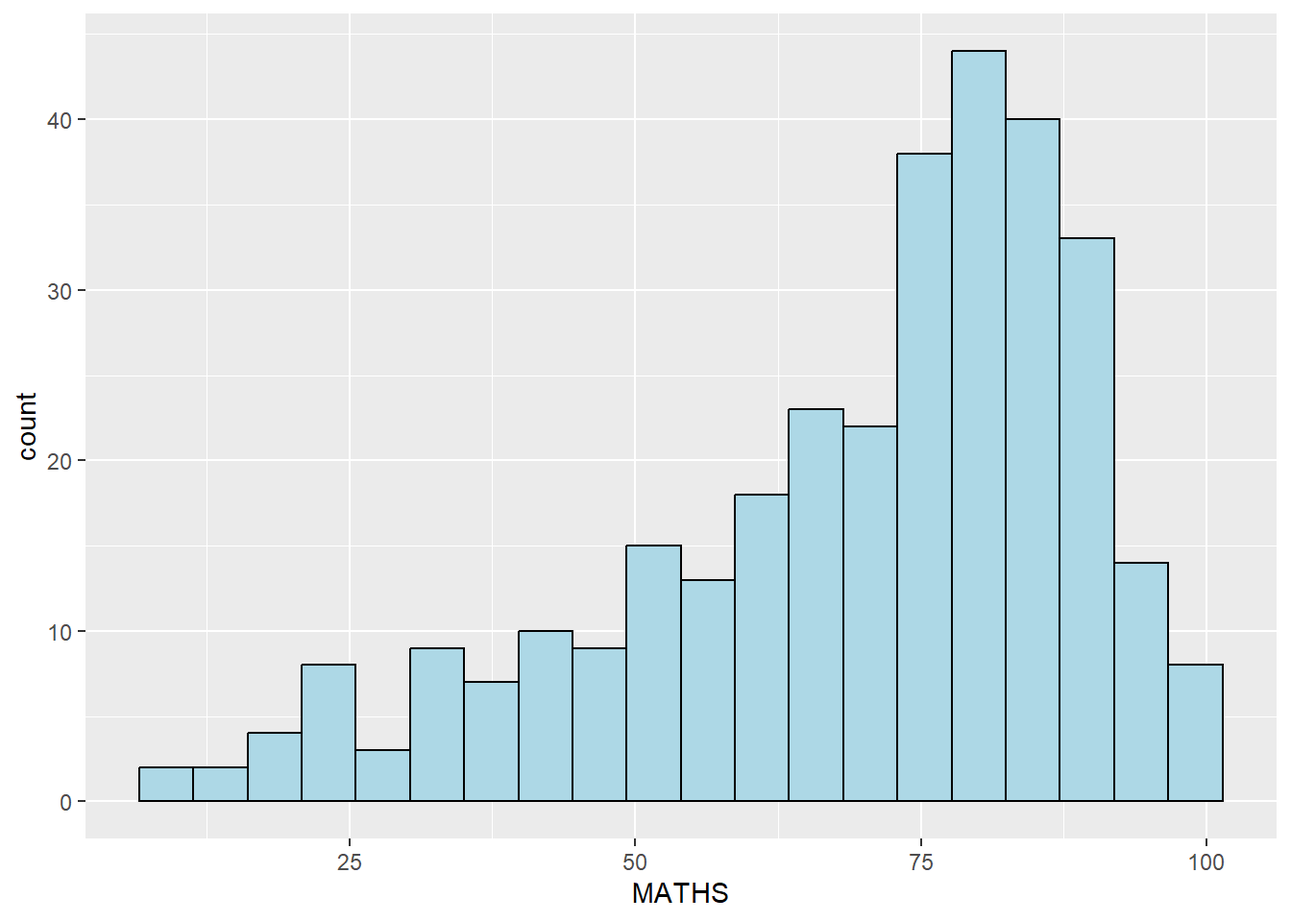
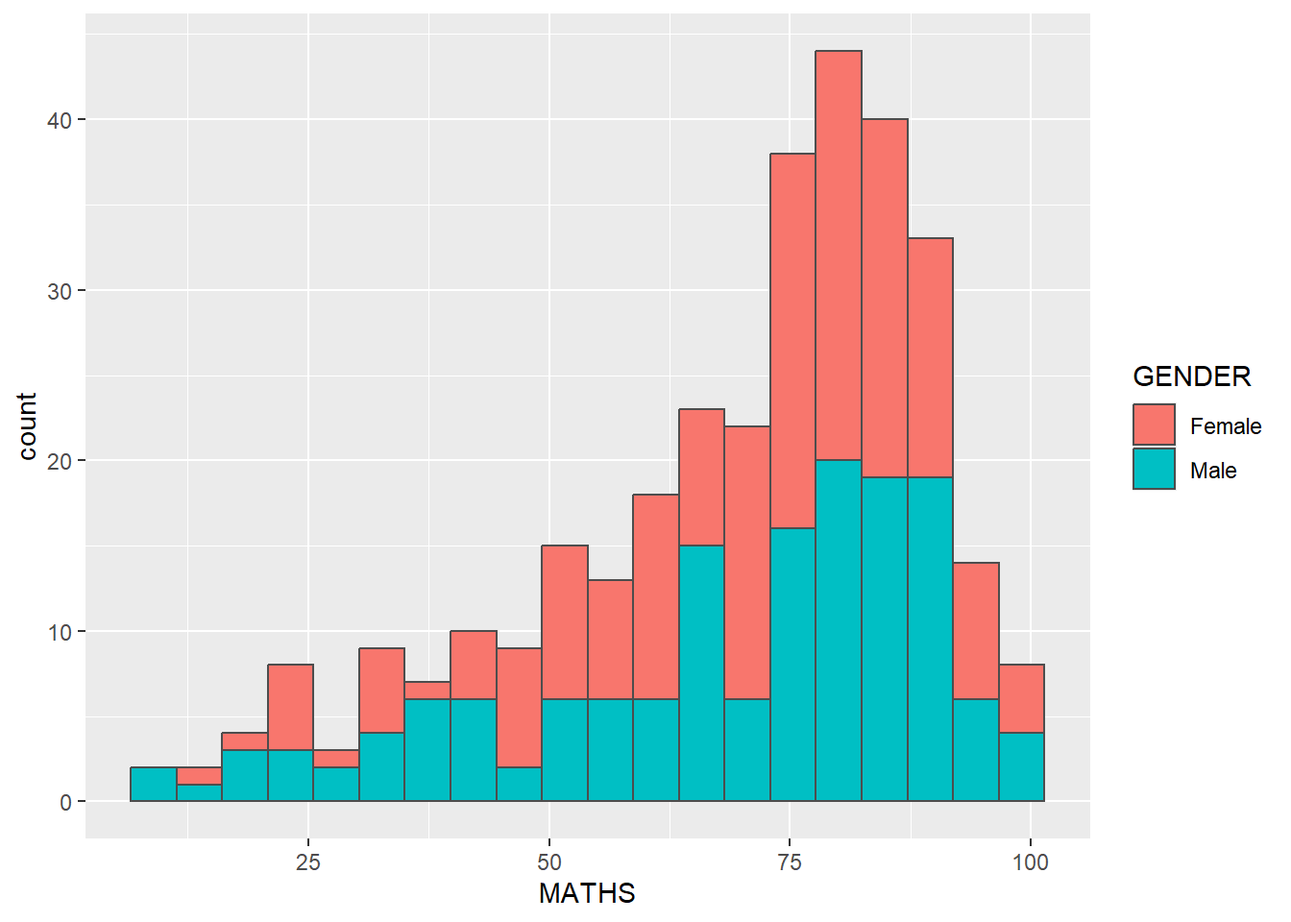
Commit after editting Hands-on Exercise 1

diff --git a/_site/Hands-on_EX/Hands-on_Ex01/Hands-on_Ex01.html b/_site/Hands-on_EX/Hands-on_Ex01/Hands-on_Ex01.html
@@ -170,7 +170,6 @@ pre > code.sourceCode > span > a:first-child::before { text-decoration: underlin
   <li><a href="#install-and-launching-r-packages" id="toc-install-and-launching-r-packages" class="nav-link" data-scroll-target="#install-and-launching-r-packages">Install and launching R packages</a></li>
   <li><a href="#importing-the-data" id="toc-importing-the-data" class="nav-link" data-scroll-target="#importing-the-data">Importing the data</a></li>
   </ul></li>
-  <li><a href="#plotting-a-simple-bar-chart" id="toc-plotting-a-simple-bar-chart" class="nav-link" data-scroll-target="#plotting-a-simple-bar-chart">Plotting a simple bar chart</a></li>
   <li><a href="#hands-on-exercise-1" id="toc-hands-on-exercise-1" class="nav-link" data-scroll-target="#hands-on-exercise-1">Hands-on Exercise 1</a>
   <ul class="collapse">
   <li><a href="#importing-the-data-1" id="toc-importing-the-data-1" class="nav-link" data-scroll-target="#importing-the-data-1">Importing the data</a></li>
@@ -180,6 +179,13 @@ pre > code.sourceCode > span > a:first-child::before { text-decoration: underlin
   <li><a href="#geom-histogram" id="toc-geom-histogram" class="nav-link" data-scroll-target="#geom-histogram">Geom Histogram</a></li>
   <li><a href="#geom-update-1" id="toc-geom-update-1" class="nav-link" data-scroll-target="#geom-update-1">Geom Update 1</a></li>
   <li><a href="#geom-update-aes" id="toc-geom-update-aes" class="nav-link" data-scroll-target="#geom-update-aes">Geom Update AES</a></li>
+  <li><a href="#geom-density" id="toc-geom-density" class="nav-link" data-scroll-target="#geom-density">Geom Density</a></li>
+  <li><a href="#geom-density-2" id="toc-geom-density-2" class="nav-link" data-scroll-target="#geom-density-2">Geom Density 2</a></li>
+  <li><a href="#geom-box-plot" id="toc-geom-box-plot" class="nav-link" data-scroll-target="#geom-box-plot">Geom Box Plot</a></li>
+  <li><a href="#geom-box-plot-notches" id="toc-geom-box-plot-notches" class="nav-link" data-scroll-target="#geom-box-plot-notches">Geom Box Plot Notches</a></li>
+  <li><a href="#geom-violin" id="toc-geom-violin" class="nav-link" data-scroll-target="#geom-violin">Geom Violin</a></li>
+  <li><a href="#geom-point" id="toc-geom-point" class="nav-link" data-scroll-target="#geom-point">Geom Point</a></li>
+  <li><a href="#geom-objects-combined" id="toc-geom-objects-combined" class="nav-link" data-scroll-target="#geom-objects-combined">Geom Objects Combined</a></li>
   </ul></li>
   </ul>
 </nav>
@@ -238,30 +244,15 @@ dbl (3): ENGLISH, MATHS, SCIENCE
 </div>
 </section>
 </section>
-<section id="plotting-a-simple-bar-chart" class="level1">
-<h1>Plotting a simple bar chart</h1>
-<div class="cell">
-<div class="code-copy-outer-scaffold"><div class="sourceCode cell-code" id="cb4"><pre class="sourceCode r code-with-copy"><code class="sourceCode r"><span id="cb4-1"><a href="#cb4-1" aria-hidden="true" tabindex="-1"></a><span class="fu">ggplot</span>(<span class="at">data =</span> exam_data,</span>
-<span id="cb4-2"><a href="#cb4-2" aria-hidden="true" tabindex="-1"></a>       <span class="fu">aes</span>(<span class="at">x =</span> RACE)) <span class="sc">+</span></span>
-<span id="cb4-3"><a href="#cb4-3" aria-hidden="true" tabindex="-1"></a>  <span class="fu">geom_bar</span>()</span></code></pre></div><button title="Copy to Clipboard" class="code-copy-button"><i class="bi"></i></button></div>
-<div class="cell-output-display">
-<div>
-<figure class="figure">
-<p><img src="Hands-on_Ex01_files/figure-html/unnamed-chunk-3-1.png" class="img-fluid figure-img" width="672"></p>
-</figure>
-</div>
-</div>
-</div>
-</section>
 <section id="hands-on-exercise-1" class="level1">
 <h1>Hands-on Exercise 1</h1>
 <div class="cell">
-<div class="code-copy-outer-scaffold"><div class="sourceCode cell-code" id="cb5"><pre class="sourceCode r code-with-copy"><code class="sourceCode r"><span id="cb5-1"><a href="#cb5-1" aria-hidden="true" tabindex="-1"></a>pacman<span class="sc">::</span><span class="fu">p_load</span>(tidyverse)</span></code></pre></div><button title="Copy to Clipboard" class="code-copy-button"><i class="bi"></i></button></div>
+<div class="code-copy-outer-scaffold"><div class="sourceCode cell-code" id="cb4"><pre class="sourceCode r code-with-copy"><code class="sourceCode r"><span id="cb4-1"><a href="#cb4-1" aria-hidden="true" tabindex="-1"></a>pacman<span class="sc">::</span><span class="fu">p_load</span>(tidyverse)</span></code></pre></div><button title="Copy to Clipboard" class="code-copy-button"><i class="bi"></i></button></div>
 </div>
 <section id="importing-the-data-1" class="level2">
 <h2 class="anchored" data-anchor-id="importing-the-data-1">Importing the data</h2>
 <div class="cell">
-<div class="code-copy-outer-scaffold"><div class="sourceCode cell-code" id="cb6"><pre class="sourceCode r code-with-copy"><code class="sourceCode r"><span id="cb6-1"><a href="#cb6-1" aria-hidden="true" tabindex="-1"></a>exam_data <span class="ot">&lt;-</span> <span class="fu">read_csv</span>(<span class="st">"data/Exam_data.csv"</span>)</span></code></pre></div><button title="Copy to Clipboard" class="code-copy-button"><i class="bi"></i></button></div>
+<div class="code-copy-outer-scaffold"><div class="sourceCode cell-code" id="cb5"><pre class="sourceCode r code-with-copy"><code class="sourceCode r"><span id="cb5-1"><a href="#cb5-1" aria-hidden="true" tabindex="-1"></a>exam_data <span class="ot">&lt;-</span> <span class="fu">read_csv</span>(<span class="st">"data/Exam_data.csv"</span>)</span></code></pre></div><button title="Copy to Clipboard" class="code-copy-button"><i class="bi"></i></button></div>
 <div class="cell-output cell-output-stderr">
 <pre><code>Rows: 322 Columns: 7
 ── Column specification ────────────────────────────────────────────────────────
@@ -277,12 +268,27 @@ dbl (3): ENGLISH, MATHS, SCIENCE
 <section id="hands-on-exercise-1-1" class="level2">
 <h2 class="anchored" data-anchor-id="hands-on-exercise-1-1">Hands-on Exercise 1</h2>
 <div class="cell">
-<div class="code-copy-outer-scaffold"><div class="sourceCode cell-code" id="cb8"><pre class="sourceCode r code-with-copy"><code class="sourceCode r"><span id="cb8-1"><a href="#cb8-1" aria-hidden="true" tabindex="-1"></a><span class="fu">ggplot</span>(<span class="at">data=</span>exam_data, <span class="fu">aes</span>(<span class="at">x =</span> MATHS)) <span class="sc">+</span></span>
-<span id="cb8-2"><a href="#cb8-2" aria-hidden="true" tabindex="-1"></a>  <span class="fu">geom_histogram</span>(<span class="at">bins=</span><span class="dv">10</span>, </span>
-<span id="cb8-3"><a href="#cb8-3" aria-hidden="true" tabindex="-1"></a>                 <span class="at">boundary =</span> <span class="dv">100</span>,</span>
-<span id="cb8-4"><a href="#cb8-4" aria-hidden="true" tabindex="-1"></a>                 <span class="at">color=</span><span class="st">"black"</span>, </span>
-<span id="cb8-5"><a href="#cb8-5" aria-hidden="true" tabindex="-1"></a>                 <span class="at">fill=</span><span class="st">"grey"</span>) <span class="sc">+</span></span>
-<span id="cb8-6"><a href="#cb8-6" aria-hidden="true" tabindex="-1"></a>  <span class="fu">ggtitle</span>(<span class="st">"Distribution of Maths scores"</span>)</span></code></pre></div><button title="Copy to Clipboard" class="code-copy-button"><i class="bi"></i></button></div>
+<div class="code-copy-outer-scaffold"><div class="sourceCode cell-code" id="cb7"><pre class="sourceCode r code-with-copy"><code class="sourceCode r"><span id="cb7-1"><a href="#cb7-1" aria-hidden="true" tabindex="-1"></a><span class="fu">ggplot</span>(<span class="at">data=</span>exam_data, <span class="fu">aes</span>(<span class="at">x =</span> MATHS)) <span class="sc">+</span></span>
+<span id="cb7-2"><a href="#cb7-2" aria-hidden="true" tabindex="-1"></a>  <span class="fu">geom_histogram</span>(<span class="at">bins=</span><span class="dv">10</span>, </span>
+<span id="cb7-3"><a href="#cb7-3" aria-hidden="true" tabindex="-1"></a>                 <span class="at">boundary =</span> <span class="dv">100</span>,</span>
+<span id="cb7-4"><a href="#cb7-4" aria-hidden="true" tabindex="-1"></a>                 <span class="at">color=</span><span class="st">"black"</span>, </span>
+<span id="cb7-5"><a href="#cb7-5" aria-hidden="true" tabindex="-1"></a>                 <span class="at">fill=</span><span class="st">"grey"</span>) <span class="sc">+</span></span>
+<span id="cb7-6"><a href="#cb7-6" aria-hidden="true" tabindex="-1"></a>  <span class="fu">ggtitle</span>(<span class="st">"Distribution of Maths scores"</span>)</span></code></pre></div><button title="Copy to Clipboard" class="code-copy-button"><i class="bi"></i></button></div>
+<div class="cell-output-display">
+<div>
+<figure class="figure">
+<p><img src="Hands-on_Ex01_files/figure-html/unnamed-chunk-5-1.png" class="img-fluid figure-img" width="672"></p>
+</figure>
+</div>
+</div>
+</div>
+</section>
+<section id="geom-bar" class="level2">
+<h2 class="anchored" data-anchor-id="geom-bar">Geom Bar</h2>
+<div class="cell">
+<div class="code-copy-outer-scaffold"><div class="sourceCode cell-code" id="cb8"><pre class="sourceCode r code-with-copy"><code class="sourceCode r"><span id="cb8-1"><a href="#cb8-1" aria-hidden="true" tabindex="-1"></a><span class="fu">ggplot</span>(<span class="at">data=</span>exam_data, </span>
+<span id="cb8-2"><a href="#cb8-2" aria-hidden="true" tabindex="-1"></a>       <span class="fu">aes</span>(<span class="at">x=</span>MATHS)) <span class="sc">+</span></span>
+<span id="cb8-3"><a href="#cb8-3" aria-hidden="true" tabindex="-1"></a>  <span class="fu">geom_bar</span>()</span></code></pre></div><button title="Copy to Clipboard" class="code-copy-button"><i class="bi"></i></button></div>
 <div class="cell-output-display">
 <div>
 <figure class="figure">
@@ -292,12 +298,15 @@ dbl (3): ENGLISH, MATHS, SCIENCE
 </div>
 </div>
 </section>
-<section id="geom-bar" class="level2">
-<h2 class="anchored" data-anchor-id="geom-bar">Geom Bar</h2>
+<section id="geom-dot-plot" class="level2">
+<h2 class="anchored" data-anchor-id="geom-dot-plot">Geom Dot Plot</h2>
 <div class="cell">
 <div class="code-copy-outer-scaffold"><div class="sourceCode cell-code" id="cb9"><pre class="sourceCode r code-with-copy"><code class="sourceCode r"><span id="cb9-1"><a href="#cb9-1" aria-hidden="true" tabindex="-1"></a><span class="fu">ggplot</span>(<span class="at">data=</span>exam_data, </span>
-<span id="cb9-2"><a href="#cb9-2" aria-hidden="true" tabindex="-1"></a>       <span class="fu">aes</span>(<span class="at">x=</span>MATHS)) <span class="sc">+</span></span>
-<span id="cb9-3"><a href="#cb9-3" aria-hidden="true" tabindex="-1"></a>  <span class="fu">geom_bar</span>()</span></code></pre></div><button title="Copy to Clipboard" class="code-copy-button"><i class="bi"></i></button></div>
+<span id="cb9-2"><a href="#cb9-2" aria-hidden="true" tabindex="-1"></a>       <span class="fu">aes</span>(<span class="at">x =</span> MATHS)) <span class="sc">+</span></span>
+<span id="cb9-3"><a href="#cb9-3" aria-hidden="true" tabindex="-1"></a>  <span class="fu">geom_dotplot</span>(<span class="at">binwidth=</span><span class="fl">2.5</span>,         </span>
+<span id="cb9-4"><a href="#cb9-4" aria-hidden="true" tabindex="-1"></a>               <span class="at">dotsize =</span> <span class="fl">0.5</span>) <span class="sc">+</span>      </span>
+<span id="cb9-5"><a href="#cb9-5" aria-hidden="true" tabindex="-1"></a>  <span class="fu">scale_y_continuous</span>(<span class="cn">NULL</span>,           </span>
+<span id="cb9-6"><a href="#cb9-6" aria-hidden="true" tabindex="-1"></a>                     <span class="at">breaks =</span> <span class="cn">NULL</span>)</span></code></pre></div><button title="Copy to Clipboard" class="code-copy-button"><i class="bi"></i></button></div>
 <div class="cell-output-display">
 <div>
 <figure class="figure">
@@ -307,15 +316,12 @@ dbl (3): ENGLISH, MATHS, SCIENCE
 </div>
 </div>
 </section>
-<section id="geom-dot-plot" class="level2">
-<h2 class="anchored" data-anchor-id="geom-dot-plot">Geom Dot Plot</h2>
+<section id="geom-histogram" class="level2">
+<h2 class="anchored" data-anchor-id="geom-histogram">Geom Histogram</h2>
 <div class="cell">
 <div class="code-copy-outer-scaffold"><div class="sourceCode cell-code" id="cb10"><pre class="sourceCode r code-with-copy"><code class="sourceCode r"><span id="cb10-1"><a href="#cb10-1" aria-hidden="true" tabindex="-1"></a><span class="fu">ggplot</span>(<span class="at">data=</span>exam_data, </span>
 <span id="cb10-2"><a href="#cb10-2" aria-hidden="true" tabindex="-1"></a>       <span class="fu">aes</span>(<span class="at">x =</span> MATHS)) <span class="sc">+</span></span>
-<span id="cb10-3"><a href="#cb10-3" aria-hidden="true" tabindex="-1"></a>  <span class="fu">geom_dotplot</span>(<span class="at">binwidth=</span><span class="fl">2.5</span>,         </span>
-<span id="cb10-4"><a href="#cb10-4" aria-hidden="true" tabindex="-1"></a>               <span class="at">dotsize =</span> <span class="fl">0.5</span>) <span class="sc">+</span>      </span>
-<span id="cb10-5"><a href="#cb10-5" aria-hidden="true" tabindex="-1"></a>  <span class="fu">scale_y_continuous</span>(<span class="cn">NULL</span>,           </span>
-<span id="cb10-6"><a href="#cb10-6" aria-hidden="true" tabindex="-1"></a>                     <span class="at">breaks =</span> <span class="cn">NULL</span>)</span></code></pre></div><button title="Copy to Clipboard" class="code-copy-button"><i class="bi"></i></button></div>
+<span id="cb10-3"><a href="#cb10-3" aria-hidden="true" tabindex="-1"></a>  <span class="fu">geom_histogram</span>(<span class="at">bins=</span><span class="dv">15</span>)     </span></code></pre></div><button title="Copy to Clipboard" class="code-copy-button"><i class="bi"></i></button></div>
 <div class="cell-output-display">
 <div>
 <figure class="figure">
@@ -325,12 +331,14 @@ dbl (3): ENGLISH, MATHS, SCIENCE
 </div>
 </div>
 </section>
-<section id="geom-histogram" class="level2">
-<h2 class="anchored" data-anchor-id="geom-histogram">Geom Histogram</h2>
+<section id="geom-update-1" class="level2">
+<h2 class="anchored" data-anchor-id="geom-update-1">Geom Update 1</h2>
 <div class="cell">
 <div class="code-copy-outer-scaffold"><div class="sourceCode cell-code" id="cb11"><pre class="sourceCode r code-with-copy"><code class="sourceCode r"><span id="cb11-1"><a href="#cb11-1" aria-hidden="true" tabindex="-1"></a><span class="fu">ggplot</span>(<span class="at">data=</span>exam_data, </span>
 <span id="cb11-2"><a href="#cb11-2" aria-hidden="true" tabindex="-1"></a>       <span class="fu">aes</span>(<span class="at">x =</span> MATHS)) <span class="sc">+</span></span>
-<span id="cb11-3"><a href="#cb11-3" aria-hidden="true" tabindex="-1"></a>  <span class="fu">geom_histogram</span>(<span class="at">bins=</span><span class="dv">15</span>)     </span></code></pre></div><button title="Copy to Clipboard" class="code-copy-button"><i class="bi"></i></button></div>
+<span id="cb11-3"><a href="#cb11-3" aria-hidden="true" tabindex="-1"></a>    <span class="fu">geom_histogram</span>(<span class="at">bins=</span><span class="dv">20</span>,            </span>
+<span id="cb11-4"><a href="#cb11-4" aria-hidden="true" tabindex="-1"></a>                 <span class="at">color=</span><span class="st">"black"</span>,      </span>
+<span id="cb11-5"><a href="#cb11-5" aria-hidden="true" tabindex="-1"></a>                 <span class="at">fill=</span><span class="st">"light blue"</span>)</span></code></pre></div><button title="Copy to Clipboard" class="code-copy-button"><i class="bi"></i></button></div>
 <div class="cell-output-display">
 <div>
 <figure class="figure">
@@ -340,14 +348,14 @@ dbl (3): ENGLISH, MATHS, SCIENCE
 </div>
 </div>
 </section>
-<section id="geom-update-1" class="level2">
-<h2 class="anchored" data-anchor-id="geom-update-1">Geom Update 1</h2>
+<section id="geom-update-aes" class="level2">
+<h2 class="anchored" data-anchor-id="geom-update-aes">Geom Update AES</h2>
 <div class="cell">
 <div class="code-copy-outer-scaffold"><div class="sourceCode cell-code" id="cb12"><pre class="sourceCode r code-with-copy"><code class="sourceCode r"><span id="cb12-1"><a href="#cb12-1" aria-hidden="true" tabindex="-1"></a><span class="fu">ggplot</span>(<span class="at">data=</span>exam_data, </span>
-<span id="cb12-2"><a href="#cb12-2" aria-hidden="true" tabindex="-1"></a>       <span class="fu">aes</span>(<span class="at">x =</span> MATHS)) <span class="sc">+</span></span>
-<span id="cb12-3"><a href="#cb12-3" aria-hidden="true" tabindex="-1"></a>    <span class="fu">geom_histogram</span>(<span class="at">bins=</span><span class="dv">20</span>,            </span>
-<span id="cb12-4"><a href="#cb12-4" aria-hidden="true" tabindex="-1"></a>                 <span class="at">color=</span><span class="st">"black"</span>,      </span>
-<span id="cb12-5"><a href="#cb12-5" aria-hidden="true" tabindex="-1"></a>                 <span class="at">fill=</span><span class="st">"light blue"</span>)</span></code></pre></div><button title="Copy to Clipboard" class="code-copy-button"><i class="bi"></i></button></div>
+<span id="cb12-2"><a href="#cb12-2" aria-hidden="true" tabindex="-1"></a>       <span class="fu">aes</span>(<span class="at">x=</span> MATHS, </span>
+<span id="cb12-3"><a href="#cb12-3" aria-hidden="true" tabindex="-1"></a>           <span class="at">fill =</span> GENDER)) <span class="sc">+</span></span>
+<span id="cb12-4"><a href="#cb12-4" aria-hidden="true" tabindex="-1"></a>  <span class="fu">geom_histogram</span>(<span class="at">bins=</span><span class="dv">20</span>, </span>
+<span id="cb12-5"><a href="#cb12-5" aria-hidden="true" tabindex="-1"></a>                 <span class="at">color=</span><span class="st">"grey30"</span>)</span></code></pre></div><button title="Copy to Clipboard" class="code-copy-button"><i class="bi"></i></button></div>
 <div class="cell-output-display">
 <div>
 <figure class="figure">
@@ -357,18 +365,114 @@ dbl (3): ENGLISH, MATHS, SCIENCE
 </div>
 </div>
 </section>
-<section id="geom-update-aes" class="level2">
-<h2 class="anchored" data-anchor-id="geom-update-aes">Geom Update AES</h2>
+<section id="geom-density" class="level2">
+<h2 class="anchored" data-anchor-id="geom-density">Geom Density</h2>
 <div class="cell">
 <div class="code-copy-outer-scaffold"><div class="sourceCode cell-code" id="cb13"><pre class="sourceCode r code-with-copy"><code class="sourceCode r"><span id="cb13-1"><a href="#cb13-1" aria-hidden="true" tabindex="-1"></a><span class="fu">ggplot</span>(<span class="at">data=</span>exam_data, </span>
-<span id="cb13-2"><a href="#cb13-2" aria-hidden="true" tabindex="-1"></a>       <span class="fu">aes</span>(<span class="at">x=</span> MATHS, </span>
-<span id="cb13-3"><a href="#cb13-3" aria-hidden="true" tabindex="-1"></a>           <span class="at">fill =</span> GENDER)) <span class="sc">+</span></span>
-<span id="cb13-4"><a href="#cb13-4" aria-hidden="true" tabindex="-1"></a>  <span class="fu">geom_histogram</span>(<span class="at">bins=</span><span class="dv">20</span>, </span>
-<span id="cb13-5"><a href="#cb13-5" aria-hidden="true" tabindex="-1"></a>                 <span class="at">color=</span><span class="st">"grey30"</span>)</span></code></pre></div><button title="Copy to Clipboard" class="code-copy-button"><i class="bi"></i></button></div>
+<span id="cb13-2"><a href="#cb13-2" aria-hidden="true" tabindex="-1"></a>       <span class="fu">aes</span>(<span class="at">x =</span> MATHS)) <span class="sc">+</span></span>
+<span id="cb13-3"><a href="#cb13-3" aria-hidden="true" tabindex="-1"></a>  <span class="fu">geom_density</span>()    </span></code></pre></div><button title="Copy to Clipboard" class="code-copy-button"><i class="bi"></i></button></div>
 <div class="cell-output-display">
 <div>
 <figure class="figure">
 <p><img src="Hands-on_Ex01_files/figure-html/unnamed-chunk-11-1.png" class="img-fluid figure-img" width="672"></p>
+</figure>
+</div>
+</div>
+</div>
+</section>
+<section id="geom-density-2" class="level2">
+<h2 class="anchored" data-anchor-id="geom-density-2">Geom Density 2</h2>
+<div class="cell">
+<div class="code-copy-outer-scaffold"><div class="sourceCode cell-code" id="cb14"><pre class="sourceCode r code-with-copy"><code class="sourceCode r"><span id="cb14-1"><a href="#cb14-1" aria-hidden="true" tabindex="-1"></a><span class="fu">ggplot</span>(<span class="at">data=</span>exam_data, </span>
+<span id="cb14-2"><a href="#cb14-2" aria-hidden="true" tabindex="-1"></a>       <span class="fu">aes</span>(<span class="at">x =</span> MATHS, </span>
+<span id="cb14-3"><a href="#cb14-3" aria-hidden="true" tabindex="-1"></a>           <span class="at">colour =</span> GENDER)) <span class="sc">+</span></span>
+<span id="cb14-4"><a href="#cb14-4" aria-hidden="true" tabindex="-1"></a>  <span class="fu">geom_density</span>()</span></code></pre></div><button title="Copy to Clipboard" class="code-copy-button"><i class="bi"></i></button></div>
+<div class="cell-output-display">
+<div>
+<figure class="figure">
+<p><img src="Hands-on_Ex01_files/figure-html/unnamed-chunk-12-1.png" class="img-fluid figure-img" width="672"></p>
+</figure>
+</div>
+</div>
+</div>
+</section>
+<section id="geom-box-plot" class="level2">
+<h2 class="anchored" data-anchor-id="geom-box-plot">Geom Box Plot</h2>
+<div class="cell">
+<div class="code-copy-outer-scaffold"><div class="sourceCode cell-code" id="cb15"><pre class="sourceCode r code-with-copy"><code class="sourceCode r"><span id="cb15-1"><a href="#cb15-1" aria-hidden="true" tabindex="-1"></a><span class="fu">ggplot</span>(<span class="at">data=</span>exam_data, </span>
+<span id="cb15-2"><a href="#cb15-2" aria-hidden="true" tabindex="-1"></a>       <span class="fu">aes</span>(<span class="at">y =</span> MATHS,       </span>
+<span id="cb15-3"><a href="#cb15-3" aria-hidden="true" tabindex="-1"></a>           <span class="at">x=</span> GENDER)) <span class="sc">+</span>    </span>
+<span id="cb15-4"><a href="#cb15-4" aria-hidden="true" tabindex="-1"></a>  <span class="fu">geom_boxplot</span>()  </span></code></pre></div><button title="Copy to Clipboard" class="code-copy-button"><i class="bi"></i></button></div>
+<div class="cell-output-display">
+<div>
+<figure class="figure">
+<p><img src="Hands-on_Ex01_files/figure-html/unnamed-chunk-13-1.png" class="img-fluid figure-img" width="672"></p>
+</figure>
+</div>
+</div>
+</div>
+</section>
+<section id="geom-box-plot-notches" class="level2">
+<h2 class="anchored" data-anchor-id="geom-box-plot-notches">Geom Box Plot Notches</h2>
+<div class="cell">
+<div class="code-copy-outer-scaffold"><div class="sourceCode cell-code" id="cb16"><pre class="sourceCode r code-with-copy"><code class="sourceCode r"><span id="cb16-1"><a href="#cb16-1" aria-hidden="true" tabindex="-1"></a><span class="fu">ggplot</span>(<span class="at">data=</span>exam_data, </span>
+<span id="cb16-2"><a href="#cb16-2" aria-hidden="true" tabindex="-1"></a>       <span class="fu">aes</span>(<span class="at">y =</span> MATHS, </span>
+<span id="cb16-3"><a href="#cb16-3" aria-hidden="true" tabindex="-1"></a>           <span class="at">x=</span> GENDER)) <span class="sc">+</span></span>
+<span id="cb16-4"><a href="#cb16-4" aria-hidden="true" tabindex="-1"></a>  <span class="fu">geom_boxplot</span>(<span class="at">notch=</span><span class="cn">TRUE</span>)</span></code></pre></div><button title="Copy to Clipboard" class="code-copy-button"><i class="bi"></i></button></div>
+<div class="cell-output-display">
+<div>
+<figure class="figure">
+<p><img src="Hands-on_Ex01_files/figure-html/unnamed-chunk-14-1.png" class="img-fluid figure-img" width="672"></p>
+</figure>
+</div>
+</div>
+</div>
+</section>
+<section id="geom-violin" class="level2">
+<h2 class="anchored" data-anchor-id="geom-violin">Geom Violin</h2>
+<div class="cell">
+<div class="code-copy-outer-scaffold"><div class="sourceCode cell-code" id="cb17"><pre class="sourceCode r code-with-copy"><code class="sourceCode r"><span id="cb17-1"><a href="#cb17-1" aria-hidden="true" tabindex="-1"></a><span class="fu">ggplot</span>(<span class="at">data=</span>exam_data, </span>
+<span id="cb17-2"><a href="#cb17-2" aria-hidden="true" tabindex="-1"></a>       <span class="fu">aes</span>(<span class="at">y =</span> MATHS, </span>
+<span id="cb17-3"><a href="#cb17-3" aria-hidden="true" tabindex="-1"></a>           <span class="at">x=</span> GENDER)) <span class="sc">+</span></span>
+<span id="cb17-4"><a href="#cb17-4" aria-hidden="true" tabindex="-1"></a>  <span class="fu">geom_violin</span>()</span></code></pre></div><button title="Copy to Clipboard" class="code-copy-button"><i class="bi"></i></button></div>
+<div class="cell-output-display">
+<div>
+<figure class="figure">
+<p><img src="Hands-on_Ex01_files/figure-html/unnamed-chunk-15-1.png" class="img-fluid figure-img" width="672"></p>
+</figure>
+</div>
+</div>
+</div>
+</section>
+<section id="geom-point" class="level2">
+<h2 class="anchored" data-anchor-id="geom-point">Geom Point</h2>
+<div class="cell">
+<div class="code-copy-outer-scaffold"><div class="sourceCode cell-code" id="cb18"><pre class="sourceCode r code-with-copy"><code class="sourceCode r"><span id="cb18-1"><a href="#cb18-1" aria-hidden="true" tabindex="-1"></a><span class="fu">ggplot</span>(<span class="at">data=</span>exam_data, </span>
+<span id="cb18-2"><a href="#cb18-2" aria-hidden="true" tabindex="-1"></a>       <span class="fu">aes</span>(<span class="at">x=</span> MATHS, </span>
+<span id="cb18-3"><a href="#cb18-3" aria-hidden="true" tabindex="-1"></a>           <span class="at">y=</span>ENGLISH)) <span class="sc">+</span></span>
+<span id="cb18-4"><a href="#cb18-4" aria-hidden="true" tabindex="-1"></a>  <span class="fu">geom_point</span>()</span></code></pre></div><button title="Copy to Clipboard" class="code-copy-button"><i class="bi"></i></button></div>
+<div class="cell-output-display">
+<div>
+<figure class="figure">
+<p><img src="Hands-on_Ex01_files/figure-html/unnamed-chunk-16-1.png" class="img-fluid figure-img" width="672"></p>
+</figure>
+</div>
+</div>
+</div>
+</section>
+<section id="geom-objects-combined" class="level2">
+<h2 class="anchored" data-anchor-id="geom-objects-combined">Geom Objects Combined</h2>
+<div class="cell">
+<div class="code-copy-outer-scaffold"><div class="sourceCode cell-code" id="cb19"><pre class="sourceCode r code-with-copy"><code class="sourceCode r"><span id="cb19-1"><a href="#cb19-1" aria-hidden="true" tabindex="-1"></a><span class="fu">ggplot</span>(<span class="at">data=</span>exam_data, </span>
+<span id="cb19-2"><a href="#cb19-2" aria-hidden="true" tabindex="-1"></a>       <span class="fu">aes</span>(<span class="at">y =</span> MATHS, </span>
+<span id="cb19-3"><a href="#cb19-3" aria-hidden="true" tabindex="-1"></a>           <span class="at">x=</span> GENDER)) <span class="sc">+</span></span>
+<span id="cb19-4"><a href="#cb19-4" aria-hidden="true" tabindex="-1"></a>  <span class="fu">geom_boxplot</span>() <span class="sc">+</span>                    </span>
+<span id="cb19-5"><a href="#cb19-5" aria-hidden="true" tabindex="-1"></a>  <span class="fu">geom_point</span>(<span class="at">position=</span><span class="st">"jitter"</span>, </span>
+<span id="cb19-6"><a href="#cb19-6" aria-hidden="true" tabindex="-1"></a>             <span class="at">size =</span> <span class="fl">0.5</span>)   </span></code></pre></div><button title="Copy to Clipboard" class="code-copy-button"><i class="bi"></i></button></div>
+<div class="cell-output-display">
+<div>
+<figure class="figure">
+<p><img src="Hands-on_Ex01_files/figure-html/unnamed-chunk-17-1.png" class="img-fluid figure-img" width="672"></p>
 </figure>
 </div>
 </div>
